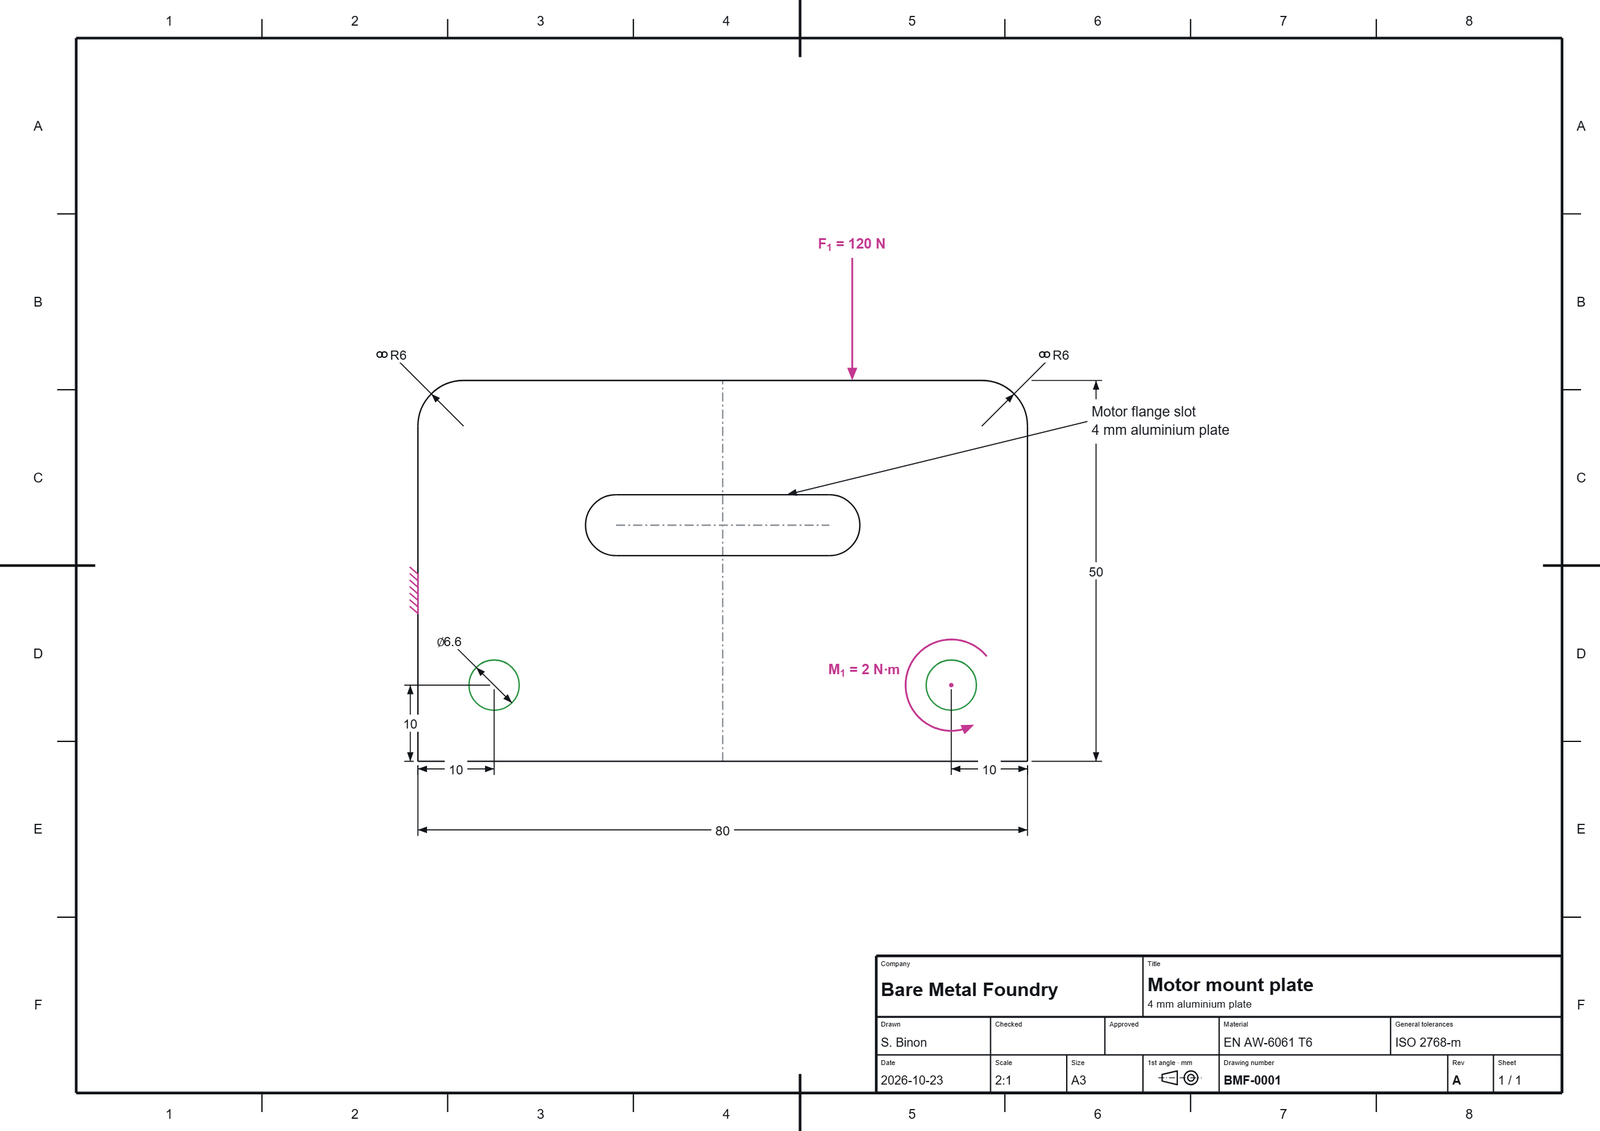
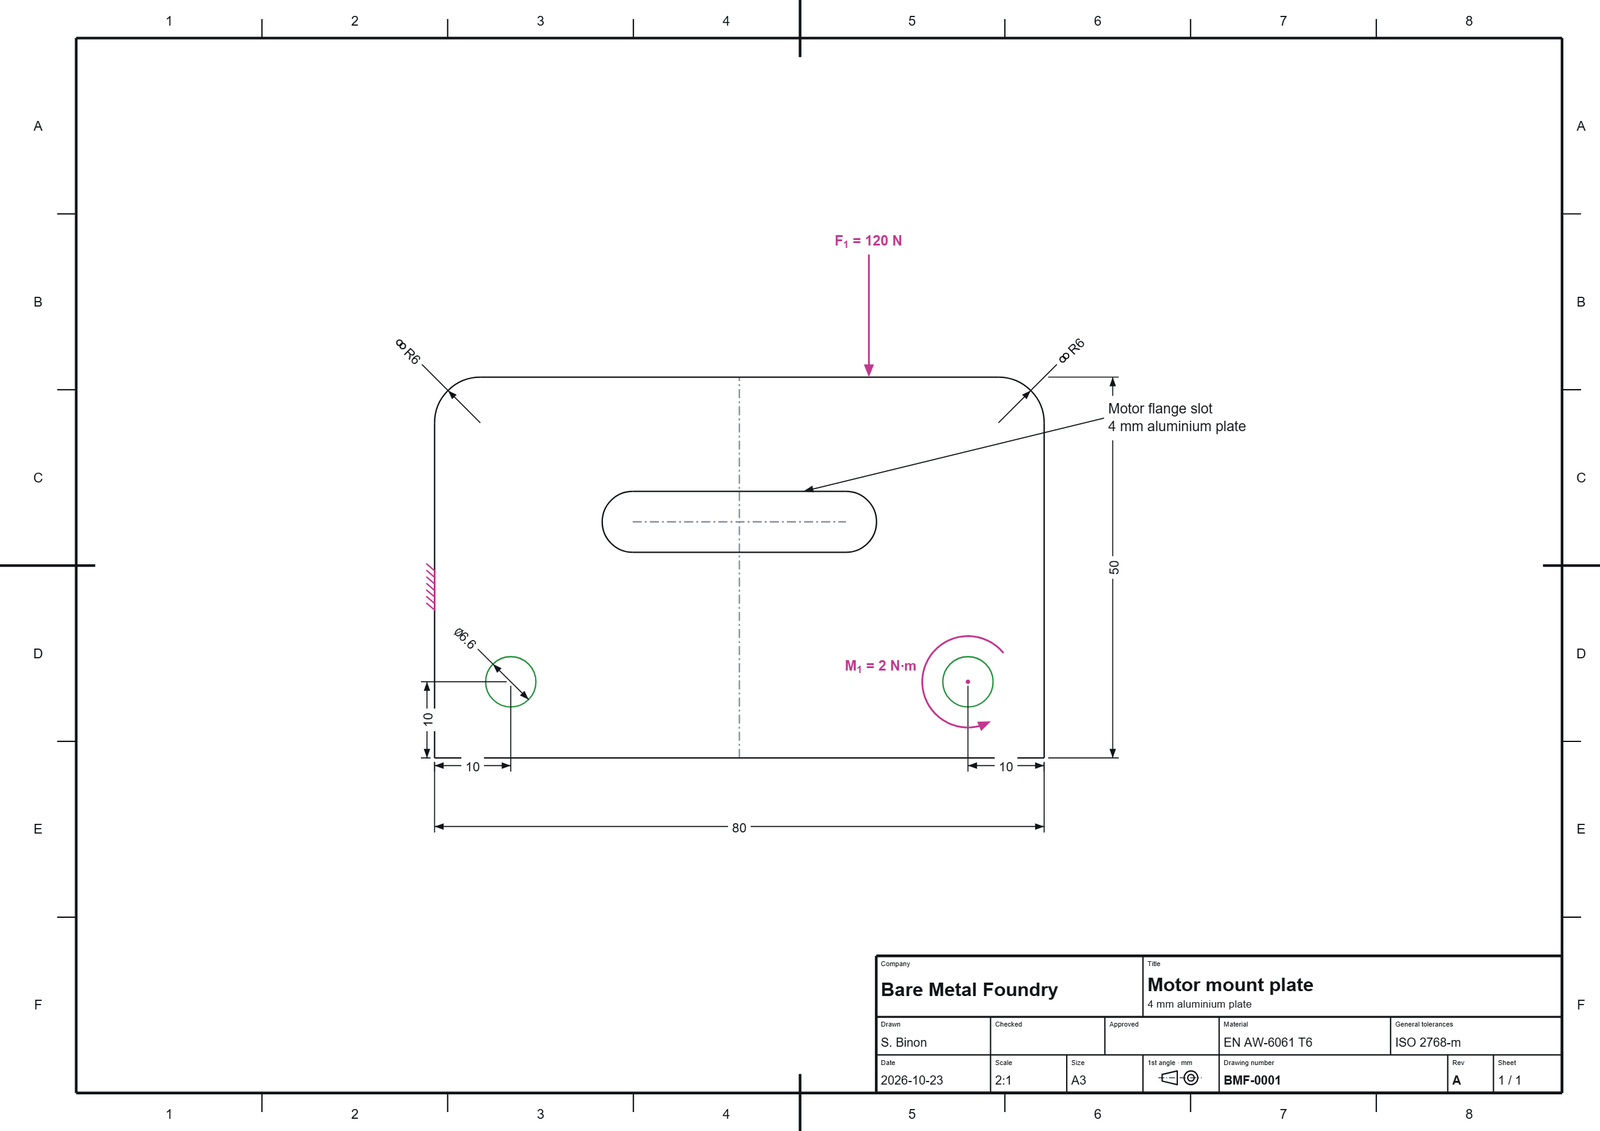
QoL

diff --git a/index.html b/index.html
@@ -373,6 +373,12 @@ body.no-help .help, body.no-help .sb-empty, body.no-help .note-line { display: n
 .ctx button { display: flex; width: 100%; align-items: center; gap: 8px; padding: 6px 9px; border: 0; border-radius: 5px; background: transparent; text-align: left; font-size: 13.5px; }
 .ctx button:hover, .ctx button:focus-visible { background: var(--hover-bg); }
 .ctx hr { border: 0; border-top: 1px solid var(--rule); margin: 4px 2px; }
+.ctx { min-width: 0; }
+.ctx-quick { display: grid; grid-template-columns: repeat(2, 32px); gap: 2px; }
+.ctx button.qt { justify-content: center; width: 32px; height: 32px; padding: 0; }
+.ctx button.qt[aria-pressed="true"] { background: var(--active-bg); color: var(--select-ink); }
+.ctx button.qt svg { width: 18px; height: 18px; }
+.ctx .ctx-quick + hr { margin: 4px 0; }
 
 .toast {
   position: absolute; left: 50%; bottom: 14px; transform: translateX(-50%); z-index: 30; max-width: min(520px, calc(100% - 32px));
@@ -3577,15 +3583,32 @@ function fmtDim(c) {
 /* Linked dimensions show a chain, equation-driven ones a sigma. */
 function dimMark(c) { return c && c.expr ? (K.singleName(c.expr) ? 'link' : 'sigma') : null; }
 let dimMarkNow = null;
-function drawDimMark(ctx, x, y, mark, col) {
+/* Text turned by angle a (radians, screen direction) around (x, y). The
+   export contexts write rotated text themselves; the canvas rotates. */
+function fillTextAt(ctx, t, x, y, a) {
+  if (!a) { ctx.fillText(t, x, y); return; }
+  if (ctx.fillTextRot) { ctx.fillTextRot(t, x, y, a); return; }
+  ctx.save(); ctx.translate(x, y); ctx.rotate(a); ctx.fillText(t, 0, 0); ctx.restore();
+}
+/* The angle that keeps text along a direction but never upside down:
+   vertical text reads from bottom to top, as on drawings. */
+function uprightAngle(a) {
+  a = Math.atan2(Math.sin(a), Math.cos(a));
+  if (a >= Math.PI / 2 - 1e-6) a -= Math.PI;
+  else if (a < -Math.PI / 2 - 1e-6) a += Math.PI;
+  return Math.abs(a) < 1e-6 ? 0 : a;
+}
+function drawDimMark(ctx, x, y, mark, col, a = 0) {
+  const c = Math.cos(a), s = Math.sin(a);
+  const at = (lx, ly) => [x + lx * c - ly * s, y + lx * s + ly * c];
   ctx.save();
   ctx.strokeStyle = col; ctx.fillStyle = col; ctx.lineWidth = 1.3; ctx.setLineDash([]);
   if (mark === 'link') {
-    ctx.beginPath(); ctx.arc(x - 2.3, y + 0.5, 2.7, 0, TAU); ctx.stroke();
-    ctx.beginPath(); ctx.arc(x + 2.3, y + 0.5, 2.7, 0, TAU); ctx.stroke();
+    for (const dx of [-2.3, 2.3]) { const [px, py] = at(dx, 0.5); ctx.beginPath(); ctx.arc(px, py, 2.7, 0, TAU); ctx.stroke(); }
   } else {
     ctx.font = '700 12px ' + FONT_NUM; ctx.textAlign = 'center'; ctx.textBaseline = 'middle';
-    ctx.fillText('Σ', x, y + 1);
+    const [px, py] = at(0, 1);
+    fillTextAt(ctx, 'Σ', px, py, a);
   }
   ctx.restore();
 }
@@ -4037,16 +4060,25 @@ function extLine(ctx, x0, y0, x1, y1) {
   const ux = dx / L, uy = dy / L;
   ctx.beginPath(); ctx.moveTo(x0 + ux * 4, y0 + uy * 4); ctx.lineTo(x1 + ux * 6, y1 + uy * 6); ctx.stroke();
 }
-function dimText(R, text, x, y, col) {
-  const ctx = R.ctx, mark = dimMarkNow;
+/* The value of a dimension, centered on (x, y) and written along the
+   dimension line (direction ang, screen radians), as in CAD drawings. A
+   box in the sheet color masks the line behind the text. Returns the
+   axis-aligned box used for picking. */
+function dimText(R, text, x, y, col, ang) {
+  const ctx = R.ctx, mark = dimMarkNow, a = uprightAngle(ang || 0), c = Math.cos(a), s = Math.sin(a);
   ctx.font = '13px ' + FONT_NUM;
-  const tw = ctx.measureText(text).width, h = 17, mw = mark ? 14 : 0, w = tw + mw;
-  const bx = x - w / 2 - 4, by = y - h / 2;
-  ctx.fillStyle = R.pal.sheet; ctx.fillRect(bx, by, w + 8, h);
+  const tw = ctx.measureText(text).width, h = 17, mw = mark ? 14 : 0, w = tw + mw, W = w + 8;
+  const at = (lx, ly) => [x + lx * c - ly * s, y + lx * s + ly * c];
+  const corners = [at(-W / 2, -h / 2), at(W / 2, -h / 2), at(W / 2, h / 2), at(-W / 2, h / 2)];
+  ctx.fillStyle = R.pal.sheet;
+  ctx.beginPath(); corners.forEach(([px, py], i) => (i ? ctx.lineTo(px, py) : ctx.moveTo(px, py))); ctx.closePath(); ctx.fill();
   ctx.fillStyle = col; ctx.textAlign = 'center'; ctx.textBaseline = 'middle';
-  ctx.fillText(text, x + mw / 2, y + 1);
-  if (mark) drawDimMark(ctx, bx + 10, y, mark, col);
-  return { x: bx, y: by, w: w + 8, h };
+  const [px, py] = at(mw / 2, 1);
+  fillTextAt(ctx, text, px, py, a);
+  if (mark) { const [mx, my] = at(-W / 2 + 10, 0); drawDimMark(ctx, mx, my, mark, col, a); }
+  const xs = corners.map((q) => q[0]), ys = corners.map((q) => q[1]);
+  const x0 = Math.min(...xs), y0 = Math.min(...ys);
+  return { x: x0, y: y0, w: Math.max(...xs) - x0, h: Math.max(...ys) - y0 };
 }
 function linearFrame(c) {
   const sk = app.sk;
@@ -4163,7 +4195,7 @@ function drawLinearDim(R, c, text, col) {
     const [ex, ey] = R.toS(E.x, E.y), [fx, fy] = R.toS(g.foot.F.x, g.foot.F.y);
     ctx.save(); ctx.setLineDash([3, 3]); ctx.beginPath(); ctx.moveTo(ex, ey); ctx.lineTo(fx, fy); ctx.stroke(); ctx.restore();
   }
-  return dimText(R, text, tx, ty, col);
+  return dimText(R, text, tx, ty, col, Math.atan2(dBy - dAy, dBx - dAx) || Math.atan2(-u.y, u.x));
 }
 function drawRadialDim(R, c, text, col) {
   const sk = app.sk, ctx = R.ctx, e = sk.get(c.refs[0]);
@@ -4194,7 +4226,7 @@ function drawRadialDim(R, c, text, col) {
       }
     }
   }
-  return dimText(R, text, tx, ty, col);
+  return dimText(R, text, tx, ty, col, Math.atan2(ty - cy, tx - cx));
 }
 function drawAngleDim(R, c, text, col) {
   const sk = app.sk, ctx = R.ctx;
@@ -4236,7 +4268,7 @@ function drawAngleDim(R, c, text, col) {
   ext(c.refs[0], a1);
   ext(c.refs[1], a2);
   const am = a1 + g.sweep * tt;
-  return dimText(R, text, ix + rpx * Math.cos(am), iy - rpx * Math.sin(am), col);
+  return dimText(R, text, ix + rpx * Math.cos(am), iy - rpx * Math.sin(am), col, -am + Math.PI / 2);
 }
 
 /* ---------- relation glyphs ---------- */
@@ -6364,6 +6396,15 @@ function hideMenus() {
   $('exportMenu').hidden = true; $('btnExport').setAttribute('aria-expanded', 'false');
   $('helpMenu').hidden = true; $('btnHelp').setAttribute('aria-expanded', 'false');
 }
+/* Right-click: the four basic tools as icons in a 2 × 2 square. */
+const QUICK_TOOLS = [['point', 'i-point', 'Point', 'P'], ['line', 'i-line', 'Line', 'L'], ['circle', 'i-circle', 'Circle', 'C'], ['rect', 'i-rect', 'Rectangle', 'R']];
+function quickTools() {
+  return el('div', { class: 'ctx-quick', role: 'group', 'aria-label': 'Draw' },
+    ...QUICK_TOOLS.map(([tool, icon, name, key]) => el('button', {
+      type: 'button', role: 'menuitem', class: 'qt', title: name + ' (' + key + ')', 'aria-label': name, 'aria-pressed': String(app.tool === tool),
+      onclick: () => { hideCtx(); setTool(tool); },
+    }, svgUse(icon, 'i'))));
+}
 function showCtx(ev) {
   const items = [];
   const T = TOOLS[app.tool];
@@ -6392,17 +6433,14 @@ function showCtx(ev) {
     if (app.sel.length) items.push(['Delete', deleteSelection]);
     if (hiddenSummary().count) items.push(['Show all hidden (Shift+H)', showAllHidden]);
   }
-  if (items.length && items[items.length - 1] !== '-') items.push('-');
-  items.push(['Zoom to fit', zoomFit]);
-  items.push(['Select all', () => { if (app.tool !== 'select') setTool('select'); selectAll(); }]);
+  while (items.length && items[items.length - 1] === '-') items.pop();
   const menu = $('ctx');
-  menu.replaceChildren(...items.map((it) => it === '-' ? el('hr') : el('button', { type: 'button', role: 'menuitem', text: it[0], onclick: () => { hideCtx(); it[1](); } })));
+  menu.replaceChildren(quickTools(), ...(items.length ? [el('hr')] : []),
+    ...items.map((it) => it === '-' ? el('hr') : el('button', { type: 'button', role: 'menuitem', text: it[0], onclick: () => { hideCtx(); it[1](); } })));
   menu.hidden = false;
   const w = menu.offsetWidth || 200, h = menu.offsetHeight || 200;
   menu.style.left = clamp(ev.sx, 4, Math.max(4, app.W - w - 4)) + 'px';
   menu.style.top = clamp(ev.sy, 4, Math.max(4, app.H - h - 4)) + 'px';
-  const first = menu.querySelector('button');
-  if (first) first.focus();
 }
 
 /* ---- Croquis UI, part 4: storage, export/import, input wiring, startup ---- */
@@ -9752,7 +9790,7 @@ function drawOffsetDim(R, c, text, col) {
   ctx.beginPath(); ctx.moveTo(x1 - ex * 16, y1 - ey * 16); ctx.lineTo(lab.k > 0 ? tx : x2 + ex * 16, lab.k > 0 ? ty : y2 + ey * 16); ctx.stroke();
   arrowHead(ctx, x1, y1, ex, ey);
   arrowHead(ctx, x2, y2, -ex, -ey);
-  return dimText(R, text, tx, ty, col);
+  return dimText(R, text, tx, ty, col, Math.atan2(ey, ex));
 }
 function offsetLabel(c, m) {
   const sk = app.sk, a = sk.get(c.refs[0]), b = sk.get(c.refs[1]);
@@ -10094,6 +10132,11 @@ SvgCtx.prototype.fill = function (rule) {
   const a = this.globalAlpha;
   this.parts.push('<path d="' + this.d + '" fill="' + this.st.fillStyle + '"' + (a < 1 ? ' fill-opacity="' + nf(a) + '"' : '') + (rule === 'evenodd' ? ' fill-rule="evenodd"' : '') + '/>');
 };
+SvgCtx.prototype.fillTextRot = function (t, x, y, a) {
+  const n = this.parts.length;
+  this.fillText(t, x, y);
+  if (this.parts.length > n) this.parts[n] = this.parts[n].replace('<text ', '<text transform="rotate(' + nf(a * 180 / Math.PI) + ' ' + nf(x) + ' ' + nf(y) + ')" ');
+};
 SvgCtx.prototype.picture = function (a, c, alpha) {
   const m = [(c.TR.x - c.TL.x), (c.TR.y - c.TL.y), (c.BL.x - c.TL.x), (c.BL.y - c.TL.y), c.TL.x, c.TL.y].map(nf).join(' ');
   this.parts.push('<image href="' + a.url + '" x="0" y="0" width="1" height="1" preserveAspectRatio="none" opacity="' + nf(alpha) + '" transform="matrix(' + m + ')"/>');
@@ -10250,16 +10293,19 @@ class PdfCtx {
   fontSize() { const m = /(\d+(?:\.\d+)?)px/.exec(this.st.font); return m ? +m[1] : 12; }
   fontBold() { const m = /^\s*(\d{3}|bold)\s/.exec(this.st.font); return !!m && (m[1] === 'bold' || +m[1] >= 600); }
   measureText(t) { let w = 0; for (const r of pdfRuns(t, this.fontSize(), this.fontBold())) w += r.w; return { width: w }; }
-  fillText(t, x, y) {
+  fillText(t, x, y) { this.fillTextRot(t, x, y, 0); }
+  /* Text turned by a (radians, clockwise on screen) around (x, y). */
+  fillTextRot(t, x, y, a) {
     const s = this.st, fs = this.fontSize(), runs = pdfRuns(t, fs, this.fontBold());
-    const w = runs.reduce((a, r) => a + r.w, 0);
-    let x0 = x;
-    if (s.textAlign === 'center') x0 = x - w / 2; else if (s.textAlign === 'right' || s.textAlign === 'end') x0 = x - w;
-    const base = s.textBaseline === 'middle' ? y + fs * 0.35 : s.textBaseline === 'top' ? y + fs * 0.8 : y;
+    const w = runs.reduce((acc, r) => acc + r.w, 0), c = Math.cos(a), sn = Math.sin(a);
+    let lx = s.textAlign === 'center' ? -w / 2 : s.textAlign === 'right' || s.textAlign === 'end' ? -w : 0;
+    const base = s.textBaseline === 'middle' ? fs * 0.35 : s.textBaseline === 'top' ? fs * 0.8 : 0;
+    const m = a ? pn(c) + ' ' + pn(-sn) + ' ' + pn(sn) + ' ' + pn(c) : '1 0 0 1';
     const out = ['BT ' + pdfColor(s.fillStyle) + ' rg'];
     for (const r of runs) {
-      out.push('/' + r.font + ' ' + pn(fs * r.k * 0.75) + ' Tf 1 0 0 1 ' + pn(this.X(x0)) + ' ' + pn(this.Y(base - r.rise * fs)) + ' Tm ' + pdfStr(r.codes) + ' Tj');
-      x0 += r.w;
+      const ly = base - r.rise * fs, px = x + lx * c - ly * sn, py = y + lx * sn + ly * c;
+      out.push('/' + r.font + ' ' + pn(fs * r.k * 0.75) + ' Tf ' + m + ' ' + pn(this.X(px)) + ' ' + pn(this.Y(py)) + ' Tm ' + pdfStr(r.codes) + ' Tj');
+      lx += r.w;
     }
     out.push('ET');
     this.ops.push(out.join('\n'));
@@ -10460,8 +10506,9 @@ class TikzCtx {
     const h = s.textAlign === 'center' ? '' : s.textAlign === 'right' || s.textAlign === 'end' ? 'east' : 'west';
     const v = s.textBaseline === 'middle' ? '' : s.textBaseline === 'top' ? 'north' : 'base';
     const anchor = [v, h].filter(Boolean).join(' ') || 'center';
-    this.out.push('\\node[anchor=' + anchor + ', inner sep=0pt, text=' + this.color(s.fillStyle) + ', font=' + size + bold + '] at ' + this.P(x, y) + ' {' + texEsc(t) + '};');
+    this.out.push('\\node[anchor=' + anchor + ', inner sep=0pt, text=' + this.color(s.fillStyle) + ', font=' + size + bold + (this.rot ? ', rotate=' + tn(-this.rot / DEG) : '') + '] at ' + this.P(x, y) + ' {' + texEsc(t) + '};');
   }
+  fillTextRot(t, x, y, a) { this.rot = a; this.fillText(t, x, y); this.rot = 0; }
 }
 /* o: { size: 'fit' | 'real' | 'sheet', width (cm), dims, notes, standalone } */
 function buildTikz(o) {
